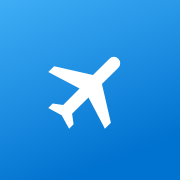
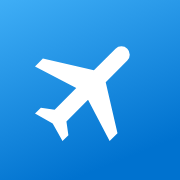
Ícono automático según el modo claro u oscuro y avión más grande
- Se quita la opción de ícono en Ajustes
- El avión ocupa más espacio en el ícono y en el encabezado

Claude-Session: https://claude.ai/code/session_01GcmH877sCNh9o7cEuuBinV

Changed region(s): [[0.1944, 0.25, 0.7222, 0.7778]]

diff --git a/index.html b/index.html
@@ -786,7 +786,7 @@ html.standalone,html.standalone body{overscroll-behavior-y:none}
 <div class="wrap">
   <div class="top">
     <div class="brand" id="brand" role="button" tabindex="0" aria-label="Ir a Vuelos">
-      <div class="mark" aria-hidden="true"><svg viewBox="0 0 24 24" width="20" height="20" fill="currentColor"><path d="M21 16v-2l-8-5V3.5a1.5 1.5 0 0 0-3 0V9l-8 5v2l8-2.5V19l-2 1.5V22l3.5-1 3.5 1v-1.5L13 19v-5.5z"/></svg></div>
+      <div class="mark" aria-hidden="true"><svg viewBox="0 0 24 24" width="26" height="26" fill="currentColor"><path d="M21 16v-2l-8-5V3.5a1.5 1.5 0 0 0-3 0V9l-8 5v2l8-2.5V19l-2 1.5V22l3.5-1 3.5 1v-1.5L13 19v-5.5z"/></svg></div>
       <div><h1>Flights</h1><small id="sub">Cargando…</small></div>
     </div>
     <button class="btn themebtn" id="b-settings" type="button" aria-label="Ajustes" title="Ajustes"><svg viewBox="0 0 24 24" fill="none" stroke="currentColor" stroke-width="2"><circle cx="12" cy="12" r="3"/><path d="M19.4 15a1.7 1.7 0 0 0 .3 1.8l.1.1a2 2 0 1 1-2.8 2.8l-.1-.1a1.7 1.7 0 0 0-1.8-.3 1.7 1.7 0 0 0-1 1.5V21a2 2 0 1 1-4 0v-.1a1.7 1.7 0 0 0-1.1-1.5 1.7 1.7 0 0 0-1.8.3l-.1.1a2 2 0 1 1-2.8-2.8l.1-.1a1.7 1.7 0 0 0 .3-1.8 1.7 1.7 0 0 0-1.5-1H3a2 2 0 1 1 0-4h.1a1.7 1.7 0 0 0 1.5-1.1 1.7 1.7 0 0 0-.3-1.8l-.1-.1a2 2 0 1 1 2.8-2.8l.1.1a1.7 1.7 0 0 0 1.8.3H9a1.7 1.7 0 0 0 1-1.5V3a2 2 0 1 1 4 0v.1a1.7 1.7 0 0 0 1 1.5 1.7 1.7 0 0 0 1.8-.3l.1-.1a2 2 0 1 1 2.8 2.8l-.1.1a1.7 1.7 0 0 0-.3 1.8V9a1.7 1.7 0 0 0 1.5 1H21a2 2 0 1 1 0 4h-.1a1.7 1.7 0 0 0-1.5 1z"/></svg></button>
@@ -899,7 +899,7 @@ function iconPNG(mode, size) {
   g.addColorStop(0, mix(ACCENT, "#ffffff", mode === "dark" ? .3 : .25)); g.addColorStop(1, mix(ACCENT, "#000000", mode === "dark" ? .05 : .15));
   if (mode === "dark") { x.fillStyle = "#000"; x.fillRect(0, 0, size, size); }
   else { x.fillStyle = g; x.fillRect(0, 0, size, size); }
-  x.save(); x.translate(size / 2, size / 2); x.rotate(Math.PI / 4); const k = size * .56 / 24; x.scale(k, k); x.translate(-12, -12);
+  x.save(); x.translate(size / 2, size / 2); x.rotate(Math.PI / 4); const k = size * .74 / 24; x.scale(k, k); x.translate(-12, -12);
   x.clip(new Path2D(PLANE_D)); x.setTransform(1, 0, 0, 1, 0, 0);
   x.fillStyle = mode === "dark" ? g : "#fff"; x.fillRect(0, 0, size, size); x.restore();
   return c.toDataURL("image/png");
@@ -1263,7 +1263,7 @@ function alCode(f) {
 }
 let LOGOS = true; try { LOGOS = localStorage.getItem("flights-logos") !== "off"; } catch {}
 function setLogos(v) { LOGOS = v; try { localStorage.setItem("flights-logos", v ? "on" : "off"); } catch {} render(); }
-const BUILD = "20261006004731";
+const BUILD = "20261006004759";
 const LOGO_CODES = new Set(["1I","2J","2K","2L","2P","2Q","3K","3R","3U","4A","4B","4C","4D","4G","4H","4N","4U","5B","5C","5D","5G","5H","5J","5N","5Y","5Z","6B","6E","6H","6J","6R","7C","7E","7F","7G","7L","8E","8F","8P","8U","8V","9E","9K","9R","9S","9T","9U","A3","A9","AA","AB","AC","AD","AE","AF","AH","AI","AJ","AK","AM","AN","AQ","AR","AS","AT","AV","AX","AY","AZ","B2","B6","B7","B8","BA","BB","BC","BD","BE","BG","BI","BJ","BL","BP","BR","BT","BW","BX","BY","C2","C3","C5","CA","CC","CF","CG","CH","CI","CJ","CL","CM","CO","CU","CV","CX","CY","CZ","D3","D7","D8","DC","DD","DE","DG","DL","DT","DV","DX","DY","E5","EA","EC","ED","EF","EI","EJ","EK","EL","EN","EP","ET","EV","EW","EY","F9","FB","FD","FF","FG","FI","FJ","FL","FM","FO","FP","FR","FU","FV","FW","FX","FY","FZ","G3","G4","G7","G8","G9","GA","GF","GG","GL","GM","GO","GR","GT","GZ","H2","H5","H6","HA","HC","HD","HF","HM","HO","HP","HR","HU","HV","HX","HY","I2","IA","IB","IE","IG","IJ","IR","IW","IX","IY","IZ","J2","J3","J8","J9","JB","JF","JJ","JK","JL","JM","JQ","JR","JS","JT","JU","JV","JZ","KB","KC","KE","KL","KM","KO","KQ","KU","KX","L6","LA","LG","LH","LI","LJ","LM","LN","LO","LP","LR","LS","LT","LU","LX","LY","M5","M7","M8","M9","MB","MD","ME","MF","MH","MK","ML","MP","MQ","MS","MU","MW","MX","N8","NF","NG","NH","NI","NK","NP","NQ","NT","NU","NW","NX","NY","NZ","OA","OD","OI","OJ","OK","OM","ON","OO","OQ","OR","OS","OU","OY","OZ","P5","PC","PD","PG","PH","PI","PJ","PK","PM","PN","PR","PS","PW","PX","PY","PZ","Q5","QF","QH","QK","QO","QQ","QR","QS","QT","QV","QX","QZ","R3","R5","RA","RB","RC","RE","RJ","RK","RO","RQ","RS","RV","RW","S4","S7","SA","SB","SC","SD","SE","SG","SH","SJ","SK","SN","SP","SQ","SR","SS","SU","SV","SW","SY","T3","T5","T7","TB","TC","TE","TF","TG","TK","TL","TN","TO","TP","TR","TS","TT","TU","TW","TX","U2","U3","U6","UA","UB","UG","UJ","UK","UL","UM","UO","UP","US","UT","UU","UX","UZ","V0","V3","V7","V8","VA","VI","VJ","VN","VR","VS","VT","VW","VX","VY","W5","W6","WA","WB","WF","WK","WN","WR","WS","WX","WY","WZ","XA","XE","XK","XL","XQ","XT","XY","Y4","Y5","Y8","YL","YS","YV","YW","YX","Z8","ZE","ZH","ZL","ZW"]);
 const hasLogo = code => !!code && LOGO_CODES.has(code);
 function alIcon(code, name, size) {

diff --git a/sw.js b/sw.js
@@ -1,5 +1,5 @@
 // Flights service worker: works offline, never stores flight data (that lives in the browser's localStorage).
-const CACHE = "flights-20261006004731";
+const CACHE = "flights-20261006004759";
 const CORE = ["./", "./index.html", "./manifest.webmanifest", "./icon-192.png", "./apple-touch-icon.png",
   "https://cdnjs.cloudflare.com/ajax/libs/d3/7.9.0/d3.min.js"];
 self.addEventListener("install", e => { e.waitUntil(caches.open(CACHE).then(c => c.addAll(CORE)).then(() => self.skipWaiting())); });
